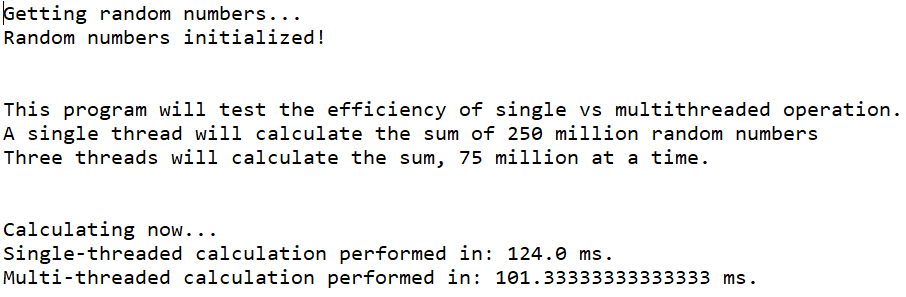
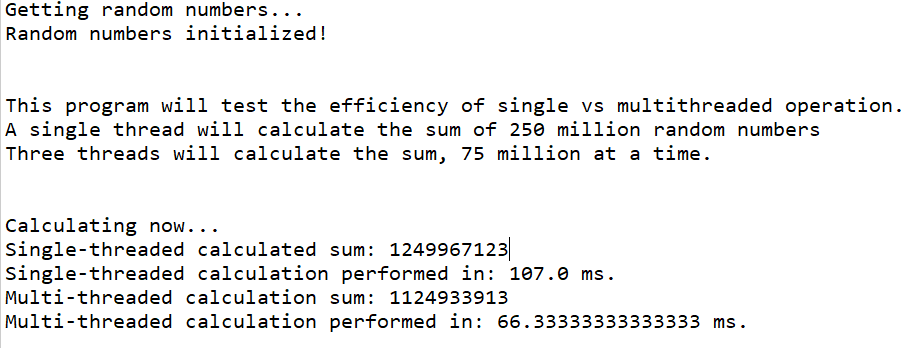
Updated to meet assignment objectives
Added the calculated sum for each calculation, changed randInt spread from 1-1000 to 1-10

Changed region(s): [[0.0, 0.2727, 0.989, 0.5758], [0.0, 0.6061, 0.8344, 0.9697], [0.0, 0.0, 0.3709, 0.1515]]

diff --git a/src/concurrency/Main.java b/src/concurrency/Main.java
@@ -18,7 +18,12 @@ Then compute the sum with only one thread, and display the sum and times for bot
  * Date completed: October 30, 2020
  * 
  * Summary:
- * This program demonstrates the use of multithreading
+ * This program demonstrates the use of multithreading.
+ * The program will perform a parallel sum calculation.
+ * One calculation will occur in a single thread and three others will occur
+ * in their own threads.
+
+ * The program will return the time it took to complete each operation in milliseconds
  */
 
 public class Main {
@@ -30,17 +35,17 @@ public static void main(String[] args) throws InterruptedException {
 	
 	//randomizes the array of 3 million numbers sized 1-1000
 	System.out.println("Getting random numbers...");
-	int[] single = random.ints(250000000, 1, 1000).toArray();
+	int[] single = random.ints(250000000, 1, 10).toArray();
 
 	//s = single , m = multithreaded
 	Worker s1 = new Worker(single, "s1");
 	
 	//Re-declares random values after they're assigned to each array
-	int[] multi = random.ints(75000000, 1, 1000).toArray();
+	int[] multi = random.ints(75000000, 1, 10).toArray();
 	Worker m1 = new Worker(multi, "m1");
-	multi = random.ints(75000000, 1, 1000).toArray();
+	multi = random.ints(75000000, 1, 10).toArray();
 	Worker m2 = new Worker(multi, "m2");
-	multi = random.ints(75000000, 1, 1000).toArray();
+	multi = random.ints(75000000, 1, 10).toArray();
 	Worker m3 = new Worker(multi, "m3");
 	System.out.println("Random numbers initialized!\n\n");
 	
@@ -56,7 +61,9 @@ public static void main(String[] args) throws InterruptedException {
 	new Thread (m3).start();
 	
 	Thread.sleep(300);
+	System.out.println("Single-threaded calculated sum: " + s1.getSum());
 	System.out.println("Single-threaded calculation performed in: " + s1.getTime() + " ms.");
+	System.out.println("Multi-threaded calculation sum: " + (m1.getSum() + m2.getSum() + m3.getSum()));
 	System.out.println("Multi-threaded calculation performed in: " + 
 			((m1.getTime() + m2.getTime() + m3.getTime())/3) + " ms.");
 

diff --git a/src/concurrency/Worker.java b/src/concurrency/Worker.java
@@ -5,6 +5,7 @@ public class Worker implements Runnable{
 	private int theArray[];
 	private double time;
 	private String name;
+	private int sum;
 
 	public Worker(int[] theArray, String name) {
 		super();
@@ -25,6 +26,14 @@ public class Worker implements Runnable{
 	public void setTime(double time) {
 		this.time = time;
 	}
+	
+	public void setSum(int sum) {
+		this.sum = sum;
+	}
+	
+	public int getSum() {
+		return sum;
+	}
 
 
 
@@ -33,7 +42,7 @@ public class Worker implements Runnable{
 		synchronized(this) {
 			setTime(System.currentTimeMillis());
 			//System.out.println("Starting calculation for " + this.getName());
-			sum(theArray);
+			setSum(sum(theArray));
 			//System.out.println("Calculation complete for " + this.getName());
 			setTime(System.currentTimeMillis() - time);
 			//System.out.println(this.getName() + " took " + time + " ms to calculate");
